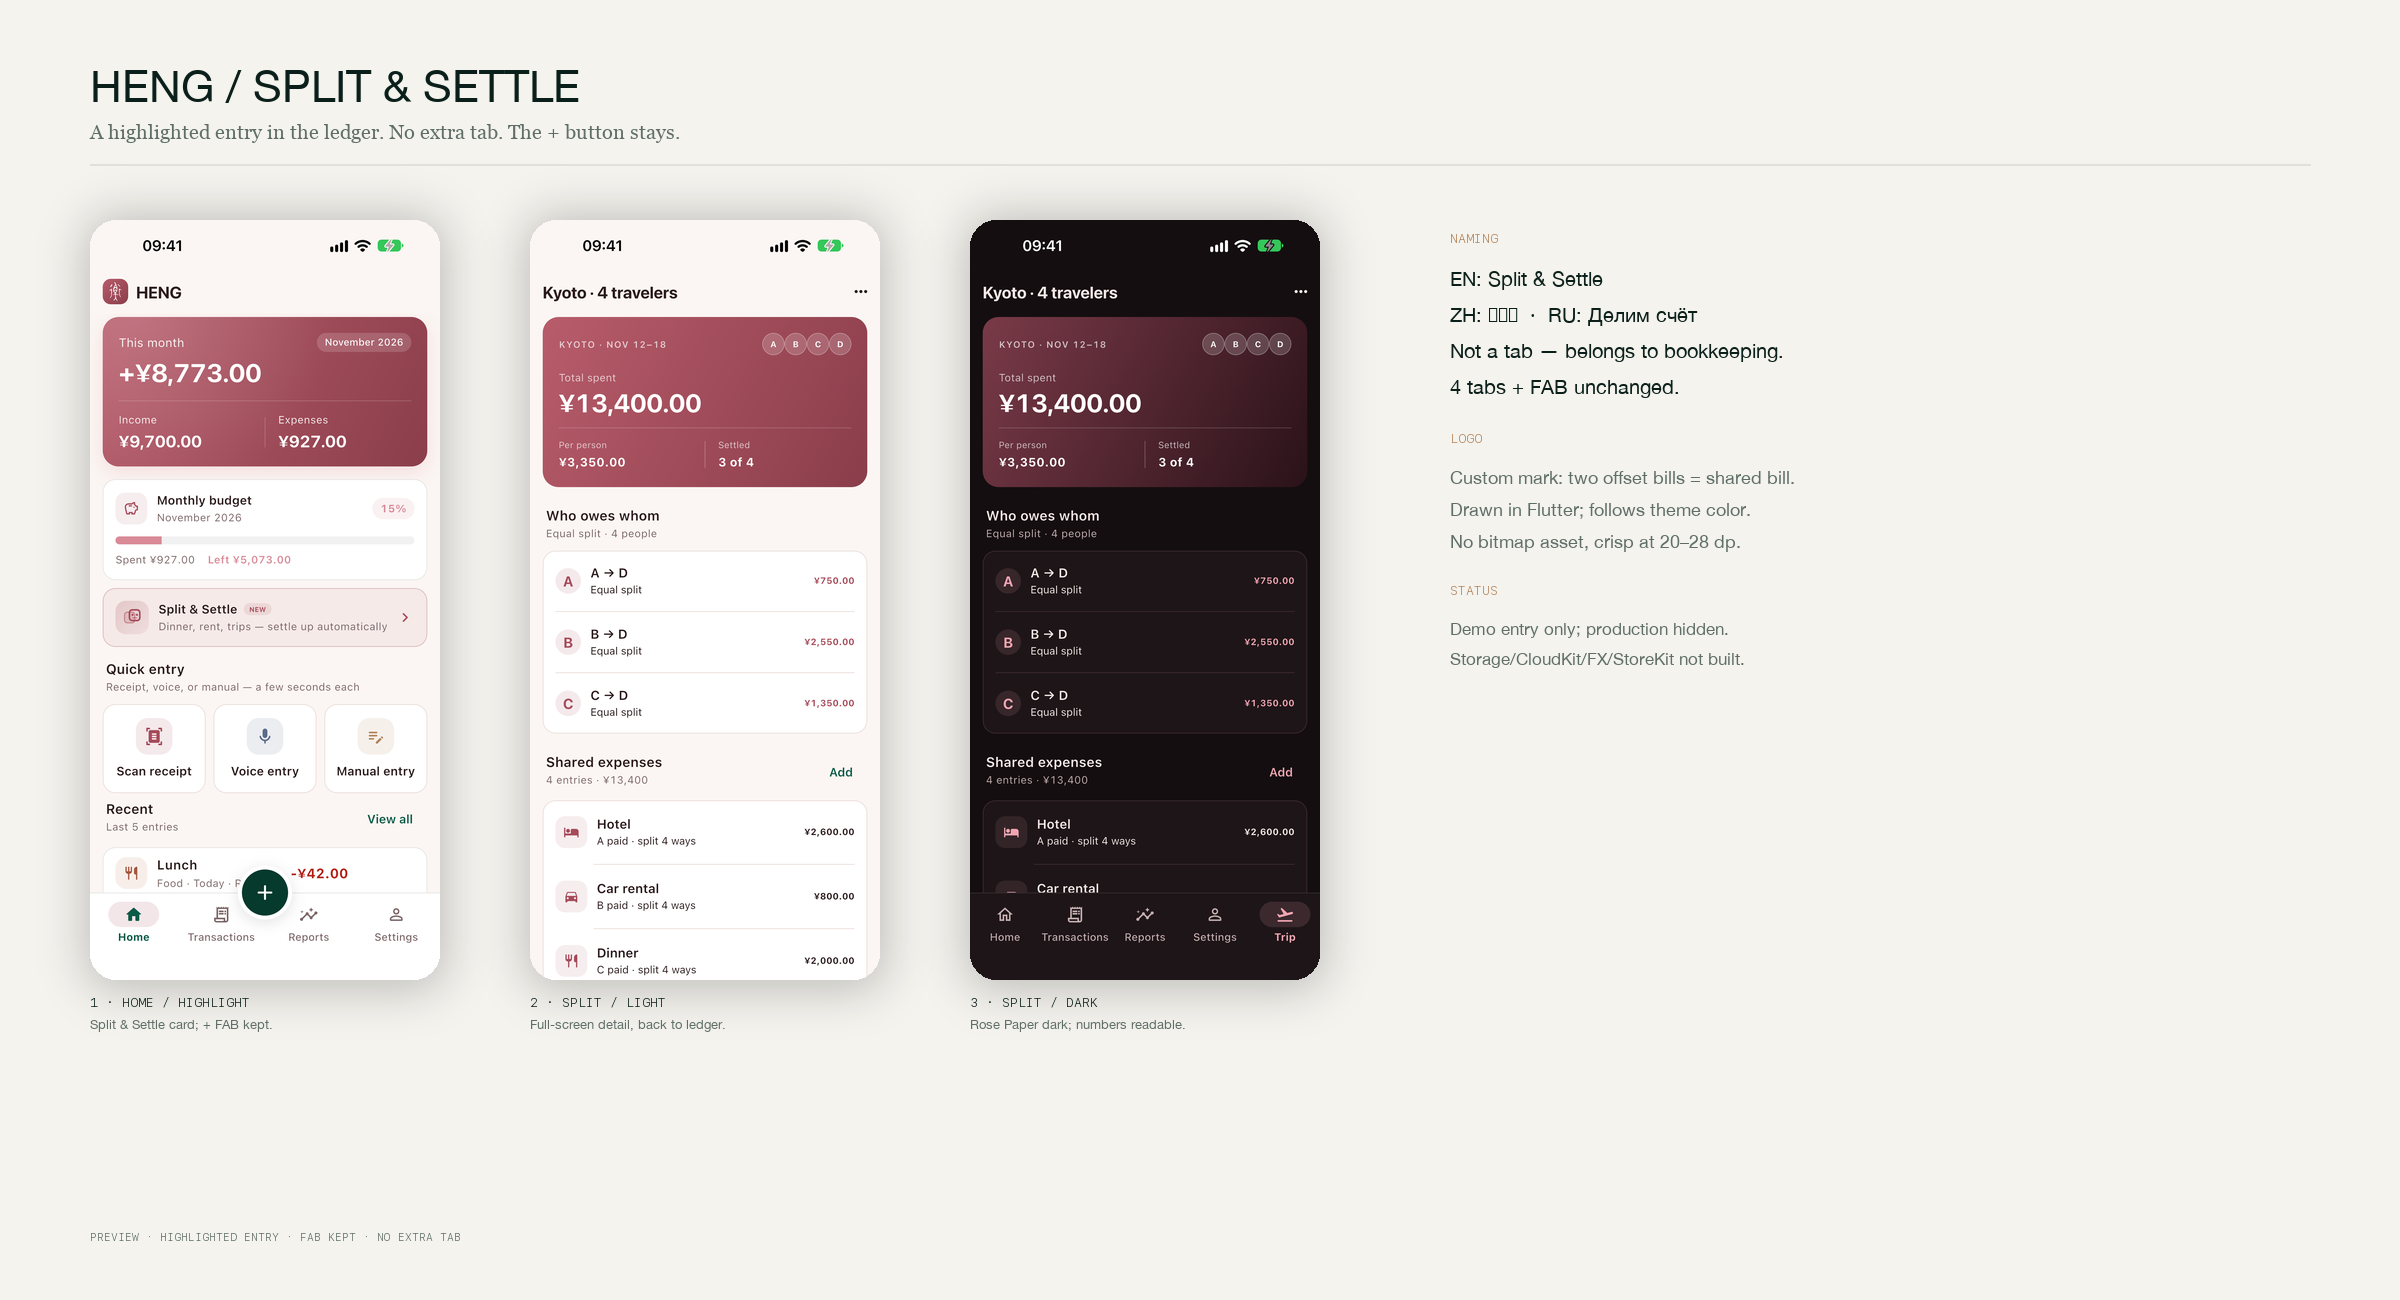
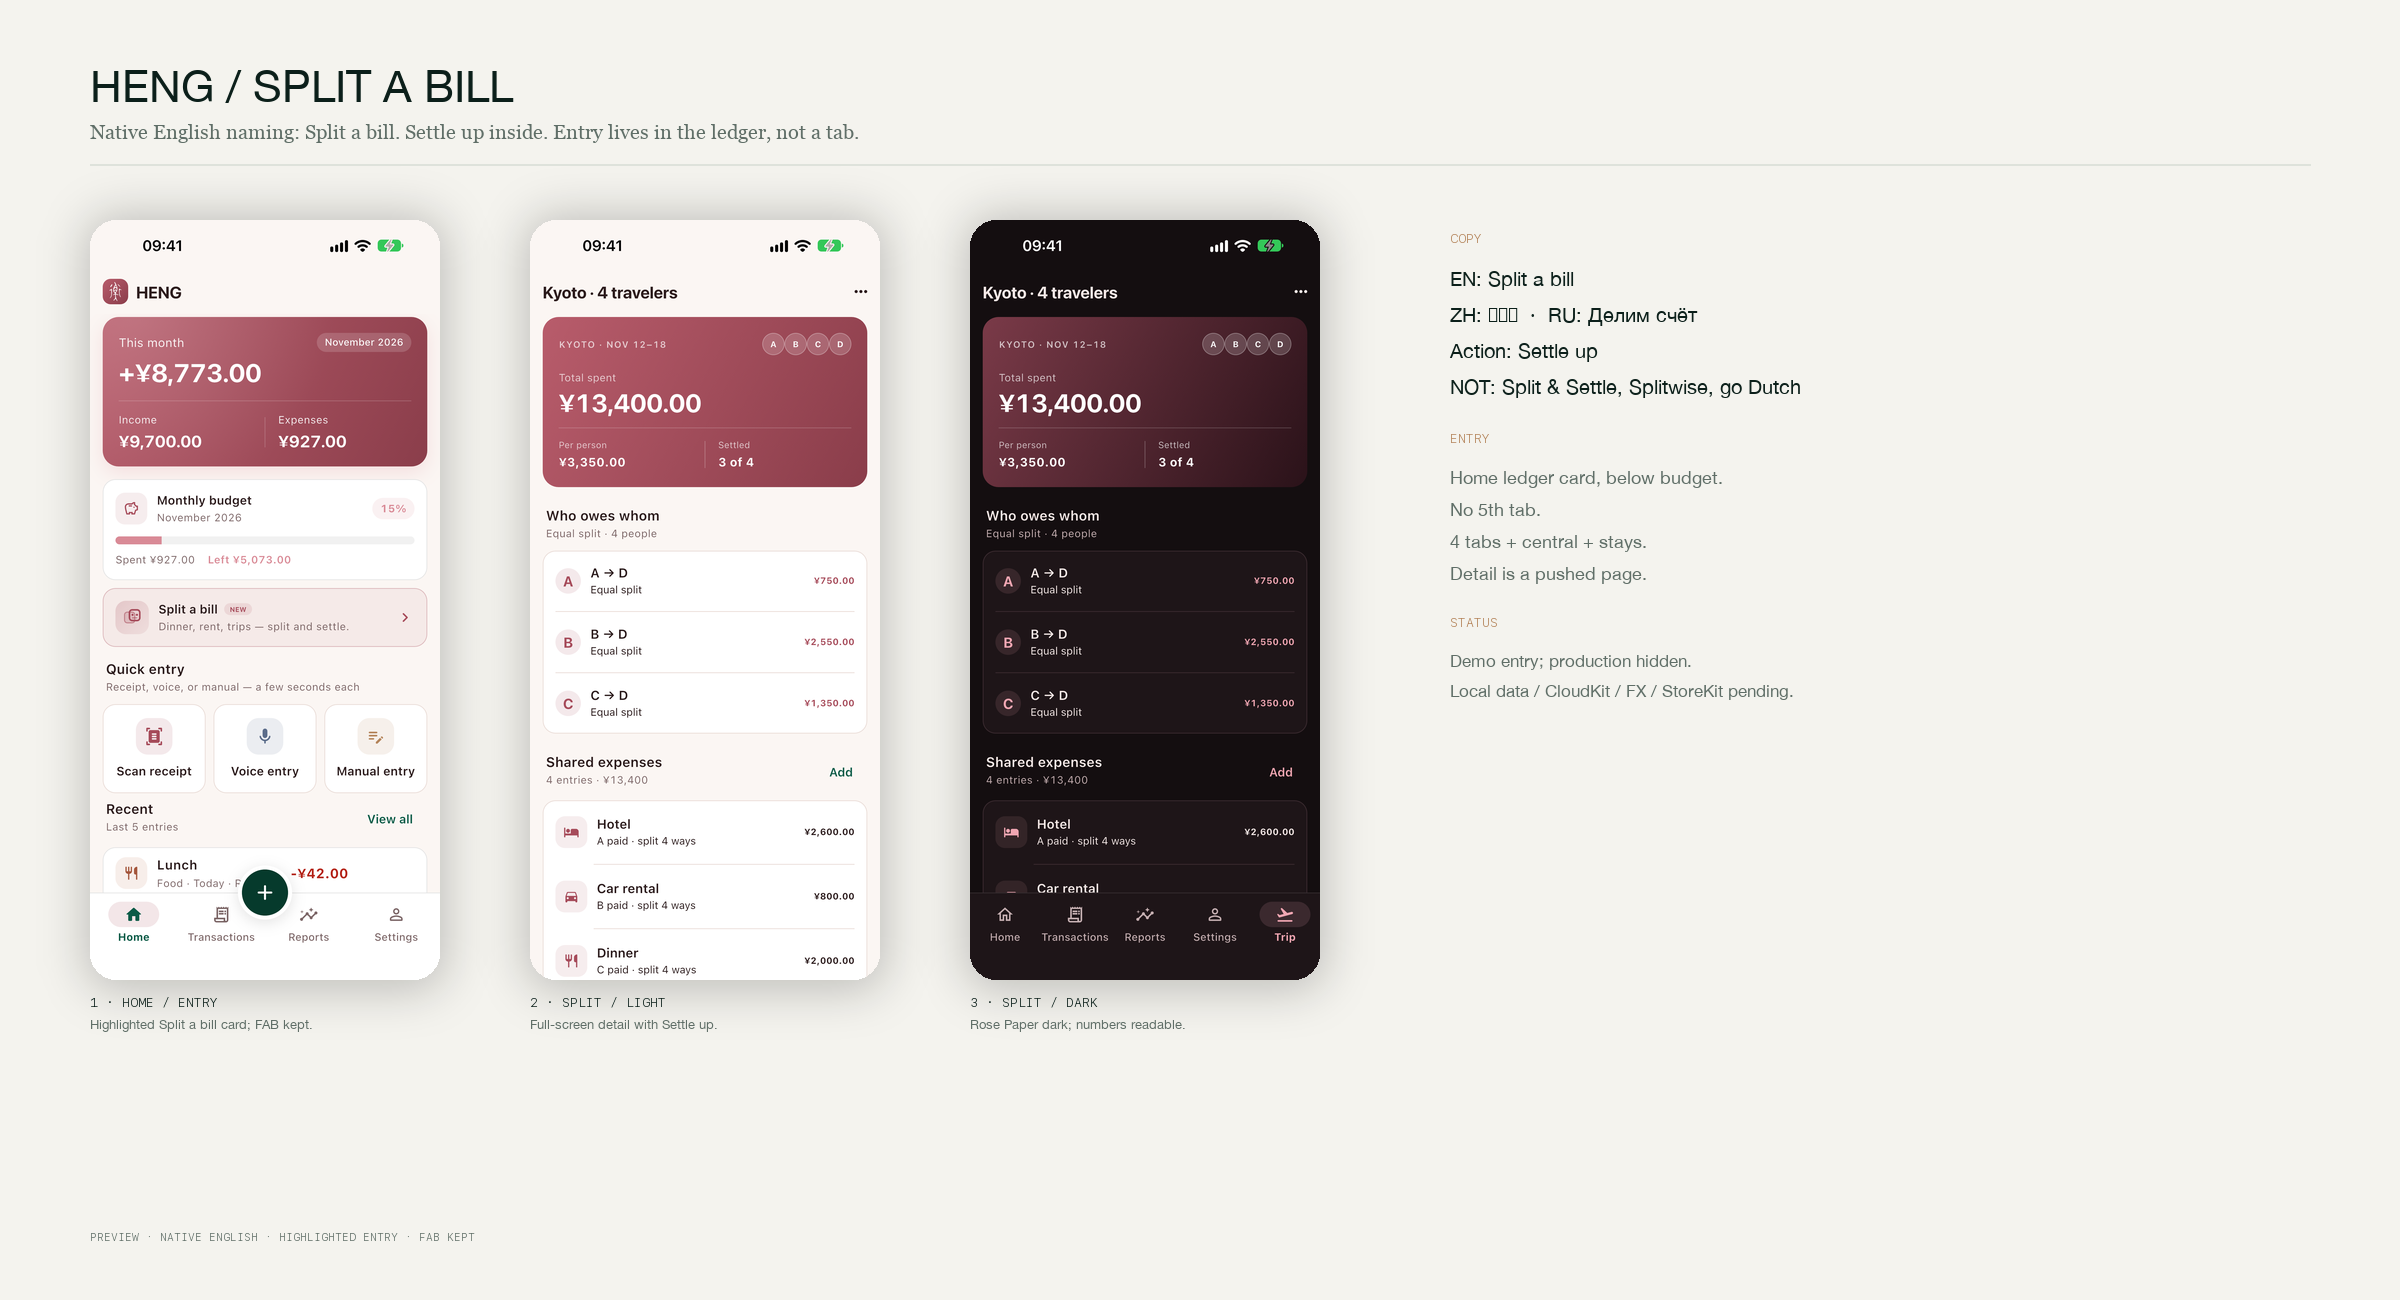
copy(split): 入口改为 Split a bill，结算动作用 Settle up
- EN 用标准说法 Split a bill / Settle up
- 中文保留 一起分
- 旅行详情增加 Settle up 入口
- 更新展示板

diff --git a/lib/ui/screens/split_demo_screen.dart b/lib/ui/screens/split_demo_screen.dart
@@ -4,6 +4,7 @@ import '../../core/format.dart';
 import '../theme.dart';
 import '../widgets/common/app_card.dart';
 import '../widgets/common/section_header.dart';
+import '../../l10n/app_localizations.dart';
 
 /// 分账概念页（仅 demo/宣发使用；正式数据模型在 1.2 接入）。
 class SplitDemoScreen extends StatelessWidget {
@@ -29,7 +30,14 @@ class SplitDemoScreen extends StatelessWidget {
         children: [
           _TripHero(theme: theme),
           const SizedBox(height: 16),
-          const SectionHeader(title: 'Who owes whom', subtitle: 'Equal split · 4 people'),
+          SectionHeader(
+            title: 'Who owes whom',
+            subtitle: 'Equal split · 4 people',
+            trailing: TextButton(
+              onPressed: () {},
+              child: Text(AppLocalizations.of(context).splitSettleUp),
+            ),
+          ),
           Card(
             child: Column(
               children: const [

diff --git a/lib/l10n/app_localizations_en.dart b/lib/l10n/app_localizations_en.dart
@@ -1360,12 +1360,14 @@ class AppLocalizationsEn extends AppLocalizations {
   String get travelModeSubtitle => 'Split a trip with friends — we do the math';
 
   @override
-  String get splitMode => 'Split & Settle';
+  String get splitMode => 'Split a bill';
 
   @override
-  String get splitModeSubtitle =>
-      'Dinner, rent, trips — settle up automatically';
+  String get splitModeSubtitle => 'Dinner, rent, trips — split and settle.';
 
   @override
   String get splitBadge => 'NEW';
+
+  @override
+  String get splitSettleUp => 'Settle up';
 }

diff --git a/lib/l10n/app_localizations_ru.dart b/lib/l10n/app_localizations_ru.dart
@@ -1366,8 +1366,12 @@ class AppLocalizationsRu extends AppLocalizations {
   String get splitMode => 'Делим счёт';
 
   @override
-  String get splitModeSubtitle => 'Ужин, аренда, поездки — расчёты за вас';
+  String get splitModeSubtitle =>
+      'Ужин, аренда, поездки — делим и рассчитываемся';
 
   @override
   String get splitBadge => 'НОВОЕ';
+
+  @override
+  String get splitSettleUp => 'Рассчитаться';
 }

diff --git a/lib/l10n/app_localizations_zh.dart b/lib/l10n/app_localizations_zh.dart
@@ -1319,6 +1319,9 @@ class AppLocalizationsZh extends AppLocalizations {
 
   @override
   String get splitBadge => '新';
+
+  @override
+  String get splitSettleUp => '结算';
 }
 
 /// The translations for Chinese, using the Han script (`zh_Hant`).
@@ -2636,4 +2639,7 @@ class AppLocalizationsZhHant extends AppLocalizationsZh {
 
   @override
   String get splitBadge => '新';
+
+  @override
+  String get splitSettleUp => '結清';
 }

diff --git a/lib/l10n/app_localizations.dart b/lib/l10n/app_localizations.dart
@@ -2431,6 +2431,12 @@ abstract class AppLocalizations {
   /// In zh, this message translates to:
   /// **'新'**
   String get splitBadge;
+
+  /// No description provided for @splitSettleUp.
+  ///
+  /// In zh, this message translates to:
+  /// **'结算'**
+  String get splitSettleUp;
 }
 
 class _AppLocalizationsDelegate
